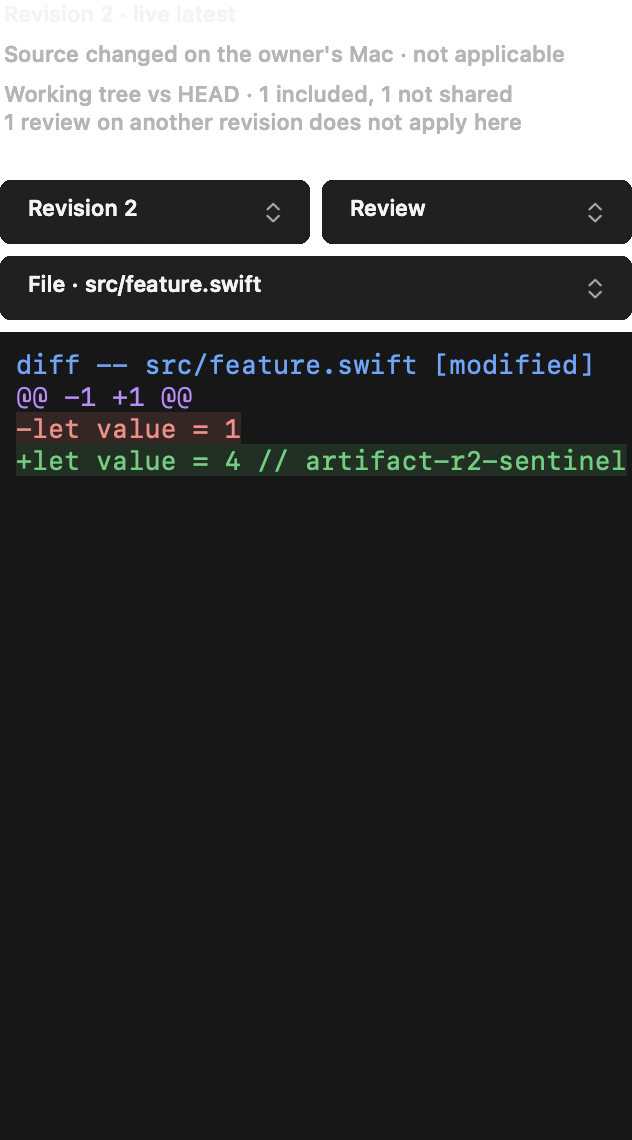
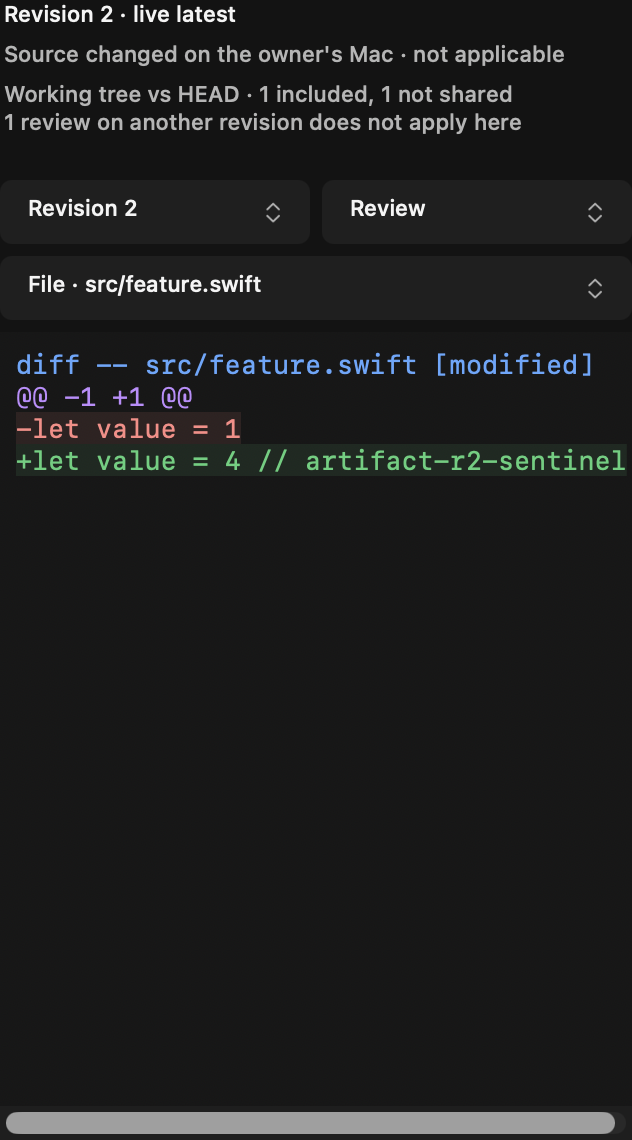
test(collaboration): render the artifact panel in a real offscreen window
The dark evidence image showed a white header because the capture drew
its bitmap with a copy operation over the painted surface, leaving the
transparent panel transparent. The panel itself is themed correctly.
Read light and dark back from the window server instead, and assert the
header shows the theme's panel surface.

Changed region(s): [[0.0, 0.0, 1.0, 0.307], [0.0, 0.9518, 0.9921, 1.0]]

diff --git a/Sources/ContinuumRevived/App/Collaboration/SharedAreaArtifactChecks.swift b/Sources/ContinuumRevived/App/Collaboration/SharedAreaArtifactChecks.swift
@@ -140,10 +140,18 @@ enum SharedAreaArtifactChecks {
         try expect(panel.applicabilityText == "Source changed on the owner's Mac · not applicable",
                    "a source change shows not applicable instead of current")
 
-        // 5. Light and dark render through the same token renderer.
+        // 5. Light and dark render through the same token renderer, in a real
+        // window kept off every display, read back from the window server.
+        let window = NSWindow(contentRect: hostView.frame, styleMask: .borderless, backing: .buffered, defer: false)
+        window.isReleasedWhenClosed = false
+        window.contentView = hostView
+        window.orderFrontOffscreenForChecks()
+        defer { window.orderOut(nil) }
         for (name, theme) in [(NSAppearance.Name.aqua, TokenTheme.light), (.darkAqua, .dark)] {
-            panel.appearance = NSAppearance(named: name)
-            panel.viewDidChangeEffectiveAppearance()
+            window.appearance = NSAppearance(named: name)
+            hostView.layoutSubtreeIfNeeded(); hostView.display()
+            CATransaction.flush()
+            try await Task.sleep(for: .milliseconds(200))
             let storage = panel.renderedStorage ?? NSAttributedString()
             var additionColor: NSColor?
             storage.enumerateAttribute(.foregroundColor, in: NSRange(location: 0, length: storage.length)) { value, range, stop in
@@ -151,23 +159,22 @@ enum SharedAreaArtifactChecks {
             }
             try expect(same(additionColor, AccentToken.accentDone.color.nsColor(for: theme)) && same(panel.textBackground, SurfaceToken.tileBody.color.nsColor(for: theme)),
                        "\(theme) appearance renders added lines and the body in that theme's tokens")
+            guard let image = CGWindowListCreateImage(.null, .optionIncludingWindow, CGWindowID(window.windowNumber), [.boundsIgnoreFraming, .bestResolution]) else {
+                throw Failure(message: "the window server returned no image of the check's own window")
+            }
+            let scale = CGFloat(image.width) / window.frame.width
+            let rect = panel.convert(panel.bounds, to: nil)
+            let crop = CGRect(x: rect.minX * scale, y: (window.frame.height - rect.maxY) * scale, width: rect.width * scale, height: rect.height * scale)
+            guard let cropped = image.cropping(to: crop.integral) else { throw Failure(message: "the panel lies outside its window") }
+            let pixels = NSBitmapImageRep(cgImage: cropped)
+            // Below the two-line coverage text, right of its words: the header
+            // shows whatever the panel sits on, the scene's panel surface.
+            let header = pixels.colorAt(x: Int((panel.bounds.width - 6) * scale), y: Int(80 * scale))
+            try expect(near(header, SurfaceToken.panel.color.nsColor(for: theme)),
+                       "\(theme) window shows the artifact header on that theme's panel surface")
             if let evidence = ProcessInfo.processInfo.environment["CONTINUUM_ARTIFACT_EVIDENCE_DIR"],
-               let rep = panel.bitmapImageRepForCachingDisplay(in: panel.bounds) {
-                // The panel draws on the scene's panel surface; paint it first
-                // so the evidence shows what a person sees in that theme.
-                NSGraphicsContext.saveGraphicsState()
-                NSGraphicsContext.current = NSGraphicsContext(bitmapImageRep: rep)
-                NSColor.clear.set(); NSRect(origin: .zero, size: rep.size).fill(using: .copy)
-                NSGraphicsContext.restoreGraphicsState()
-                panel.cacheDisplay(in: panel.bounds, to: rep)
-                let image = NSImage(size: panel.bounds.size)
-                image.lockFocus()
-                SurfaceToken.panel.color.nsColor(for: theme).setFill(); NSRect(origin: .zero, size: panel.bounds.size).fill()
-                rep.draw(in: NSRect(origin: .zero, size: panel.bounds.size))
-                image.unlockFocus()
-                if let tiff = image.tiffRepresentation, let png = NSBitmapImageRep(data: tiff)?.representation(using: .png, properties: [:]) {
-                    try png.write(to: URL(fileURLWithPath: evidence).appendingPathComponent("artifact-\(theme).png"))
-                }
+               let png = pixels.representation(using: .png, properties: [:]) {
+                try png.write(to: URL(fileURLWithPath: evidence).appendingPathComponent("artifact-\(theme).png"))
             }
         }
         try expect(try tree(recipient) == recipientBefore, "the recipient's checkout is byte-identical after reading every revision")
@@ -176,13 +183,6 @@ enum SharedAreaArtifactChecks {
         await modelA.close(); await modelB.close()
     }
 
-    // MARK: - Fixture
-
-    private static func same(_ a: NSColor?, _ b: NSColor) -> Bool {
-        guard let a = a?.usingColorSpace(.sRGB), let b = b.usingColorSpace(.sRGB) else { return false }
-        return abs(a.redComponent - b.redComponent) < 0.002 && abs(a.greenComponent - b.greenComponent) < 0.002
-            && abs(a.blueComponent - b.blueComponent) < 0.002 && abs(a.alphaComponent - b.alphaComponent) < 0.002
-    }
     /// An accepted share whose uploads failed must still publish exactly the
     /// confirmed bytes, under the reserved revision IDs, after a relaunch and on
     /// reconnect — and never send a revision that already landed.
@@ -271,7 +271,21 @@ enum SharedAreaArtifactChecks {
         await model.close()
     }
 
+    // MARK: - Fixture
 
+    private static func same(_ a: NSColor?, _ b: NSColor) -> Bool {
+        guard let a = a?.usingColorSpace(.sRGB), let b = b.usingColorSpace(.sRGB) else { return false }
+        return abs(a.redComponent - b.redComponent) < 0.002 && abs(a.greenComponent - b.greenComponent) < 0.002
+            && abs(a.blueComponent - b.blueComponent) < 0.002 && abs(a.alphaComponent - b.alphaComponent) < 0.002
+    }
+
+    /// Window-server pixels pass through display colour matching, so allow a
+    /// little more than the exact-token tolerance.
+    private static func near(_ a: NSColor?, _ b: NSColor) -> Bool {
+        guard let a = a?.usingColorSpace(.sRGB), let b = b.usingColorSpace(.sRGB) else { return false }
+        return abs(a.redComponent - b.redComponent) < 0.04 && abs(a.greenComponent - b.greenComponent) < 0.04
+            && abs(a.blueComponent - b.blueComponent) < 0.04 && a.alphaComponent > 0.99
+    }
     private static func git(_ repo: URL, _ args: String...) throws {
         let process = Process()
         process.executableURL = URL(fileURLWithPath: "/usr/bin/git")
@@ -332,6 +346,17 @@ enum SharedAreaArtifactChecks {
         var blobs: [String: Data] = [:]
         var reviews: [Artifact.Review] = []
         var connections: [UUID: (Collaboration.Identity, Connection)] = [:]
+        enum PublishOutcome { case refuse, loseReply }
+        /// Outcomes for the next publish calls; an empty script commits.
+        private var publishScript: [PublishOutcome] = []
+        /// Every publish call, including refused ones.
+        var attempts: [Artifact.Capture] = []
+        var revisionCount: Int { records.values.reduce(0) { $0 + $1.count } }
+        func script(_ outcomes: [PublishOutcome]) { publishScript = outcomes }
+        func reconnect(_ identity: Collaboration.Identity) async {
+            await connections[identity.device]?.1.emit(.reconnecting(nil))
+            await broadcast()
+        }
         init(owner: Collaboration.Identity, member: Collaboration.Identity) {
             self.owner = owner; self.member = member; document = .init(id: area)
         }
@@ -346,20 +371,16 @@ enum SharedAreaArtifactChecks {
             let result = try document.apply(mutation.command)
             await broadcast()
             switch result { case .applied(let r): return .init(revision: r, duplicate: false); case .duplicate(let r): return .init(revision: r, duplicate: true) }
-        enum PublishOutcome { case refuse, loseReply }
-        /// Outcomes for the next publish calls; an empty script commits.
-        private var publishScript: [PublishOutcome] = []
-        /// Every publish call, including refused ones.
-        var attempts: [Artifact.Capture] = []
-        var revisionCount: Int { records.values.reduce(0) { $0 + $1.count } }
-        func script(_ outcomes: [PublishOutcome]) { publishScript = outcomes }
-        func reconnect(_ identity: Collaboration.Identity) async {
-            await connections[identity.device]?.1.emit(.reconnecting(nil))
-            await broadcast()
-        }
         }
         func publish(_ capture: Artifact.Capture, by identity: Collaboration.Identity) async throws -> Artifact.PublishReceipt {
             let m = capture.manifest
+            attempts.append(capture)
+            let outcome = publishScript.isEmpty ? nil : publishScript.removeFirst()
+            if outcome == .refuse { throw CollaborationClientError.server(status: 503, code: "unavailable") }
+            // The service's idempotency: a known revision ID is a duplicate.
+            if let record = records[m.object]?.first(where: { $0.manifest.id == m.id }), record.contentDigest == m.contentDigest {
+                return .init(revision: m.id, sequence: record.sequence, duplicate: true)
+            }
             guard let item = document.items.first(where: { $0.id == m.object && $0.kind == .artifact }), item.source?.owner == identity.person else {
                 throw CollaborationClientError.server(status: 403, code: "forbidden")
             }
@@ -371,16 +392,10 @@ enum SharedAreaArtifactChecks {
                                                         publishedAt: Date(), contentDigest: m.contentDigest))
             published.append(capture)
             await broadcast()
+            if outcome == .loseReply { throw URLError(.networkConnectionLost) }
             return .init(revision: m.id, sequence: sequence, duplicate: false)
         }
         func review(_ identity: Collaboration.Identity, object: SharedArea.ID<SharedArea.Object>, revision: SharedArea.ID<Artifact.RevisionTag>) async throws -> Artifact.Review {
-            attempts.append(capture)
-            let outcome = publishScript.isEmpty ? nil : publishScript.removeFirst()
-            if outcome == .refuse { throw CollaborationClientError.server(status: 503, code: "unavailable") }
-            // The service's idempotency: a known revision ID is a duplicate.
-            if let record = records[m.object]?.first(where: { $0.manifest.id == m.id }), record.contentDigest == m.contentDigest {
-                return .init(revision: m.id, sequence: record.sequence, duplicate: true)
-            }
             guard let record = records[object]?.first(where: { $0.manifest.id == revision }) else { throw CollaborationClientError.server(status: 404, code: "notFound") }
             let value = Artifact.Review(id: .init(), object: object, revision: revision, contentDigest: record.contentDigest,
                                         author: identity.person, verdict: .approve, note: "", createdAt: Date())
@@ -392,7 +407,6 @@ enum SharedAreaArtifactChecks {
             await broadcast()
         }
         func artifactState(_ object: SharedArea.ID<SharedArea.Object>) throws -> Artifact.State {
-            if outcome == .loseReply { throw URLError(.networkConnectionLost) }
             guard document.items.contains(where: { $0.id == object && $0.kind == .artifact }) else { throw CollaborationClientError.server(status: 404, code: "notFound") }
             let list = records[object] ?? []
             func applicability(_ id: SharedArea.ID<Artifact.RevisionTag>) -> Artifact.Applicability {
